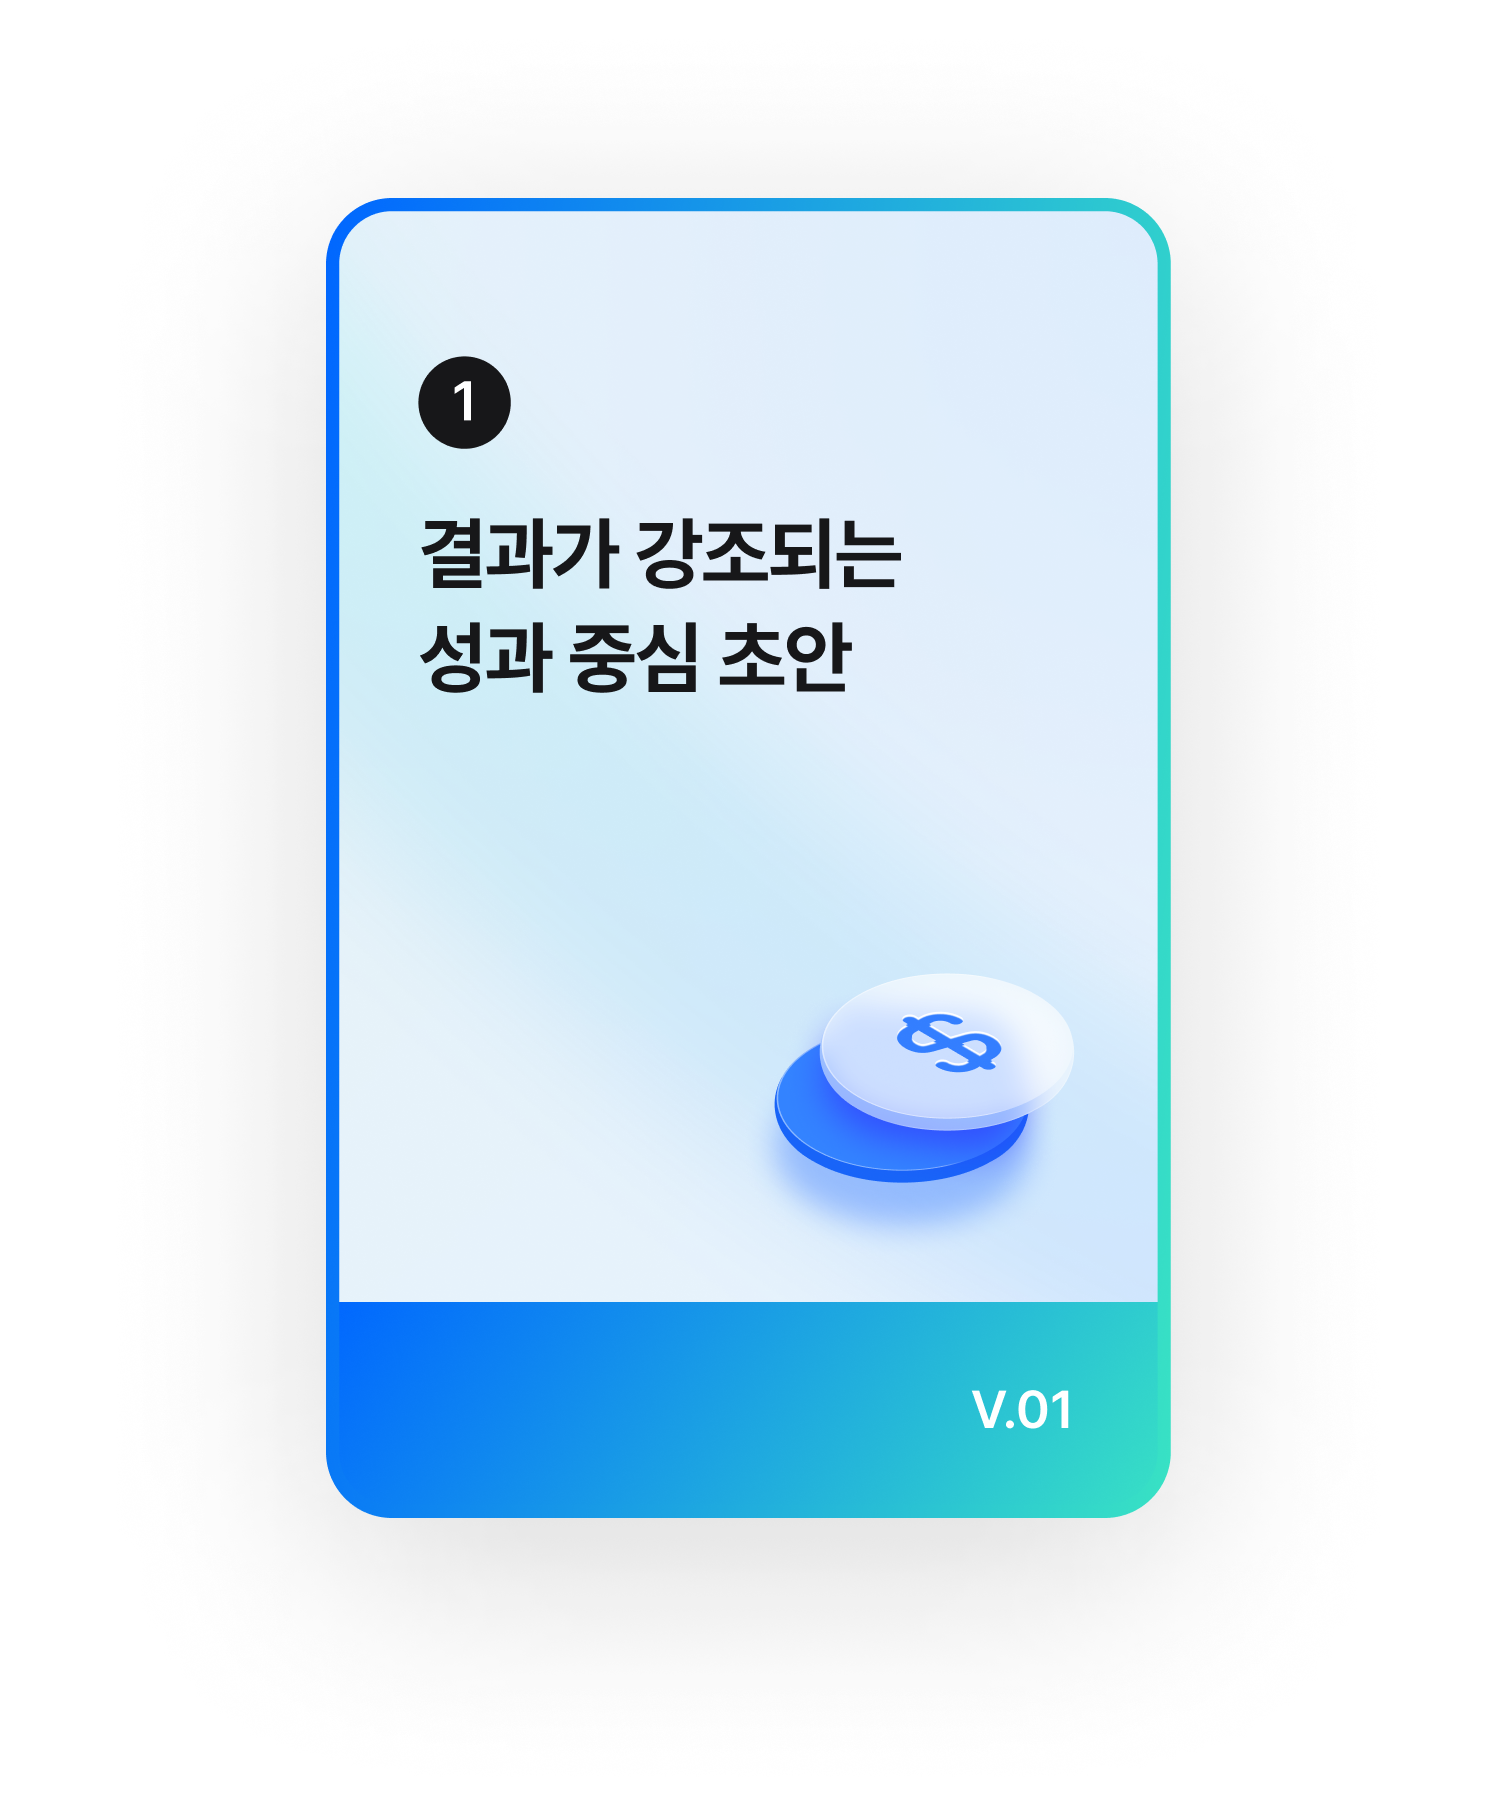
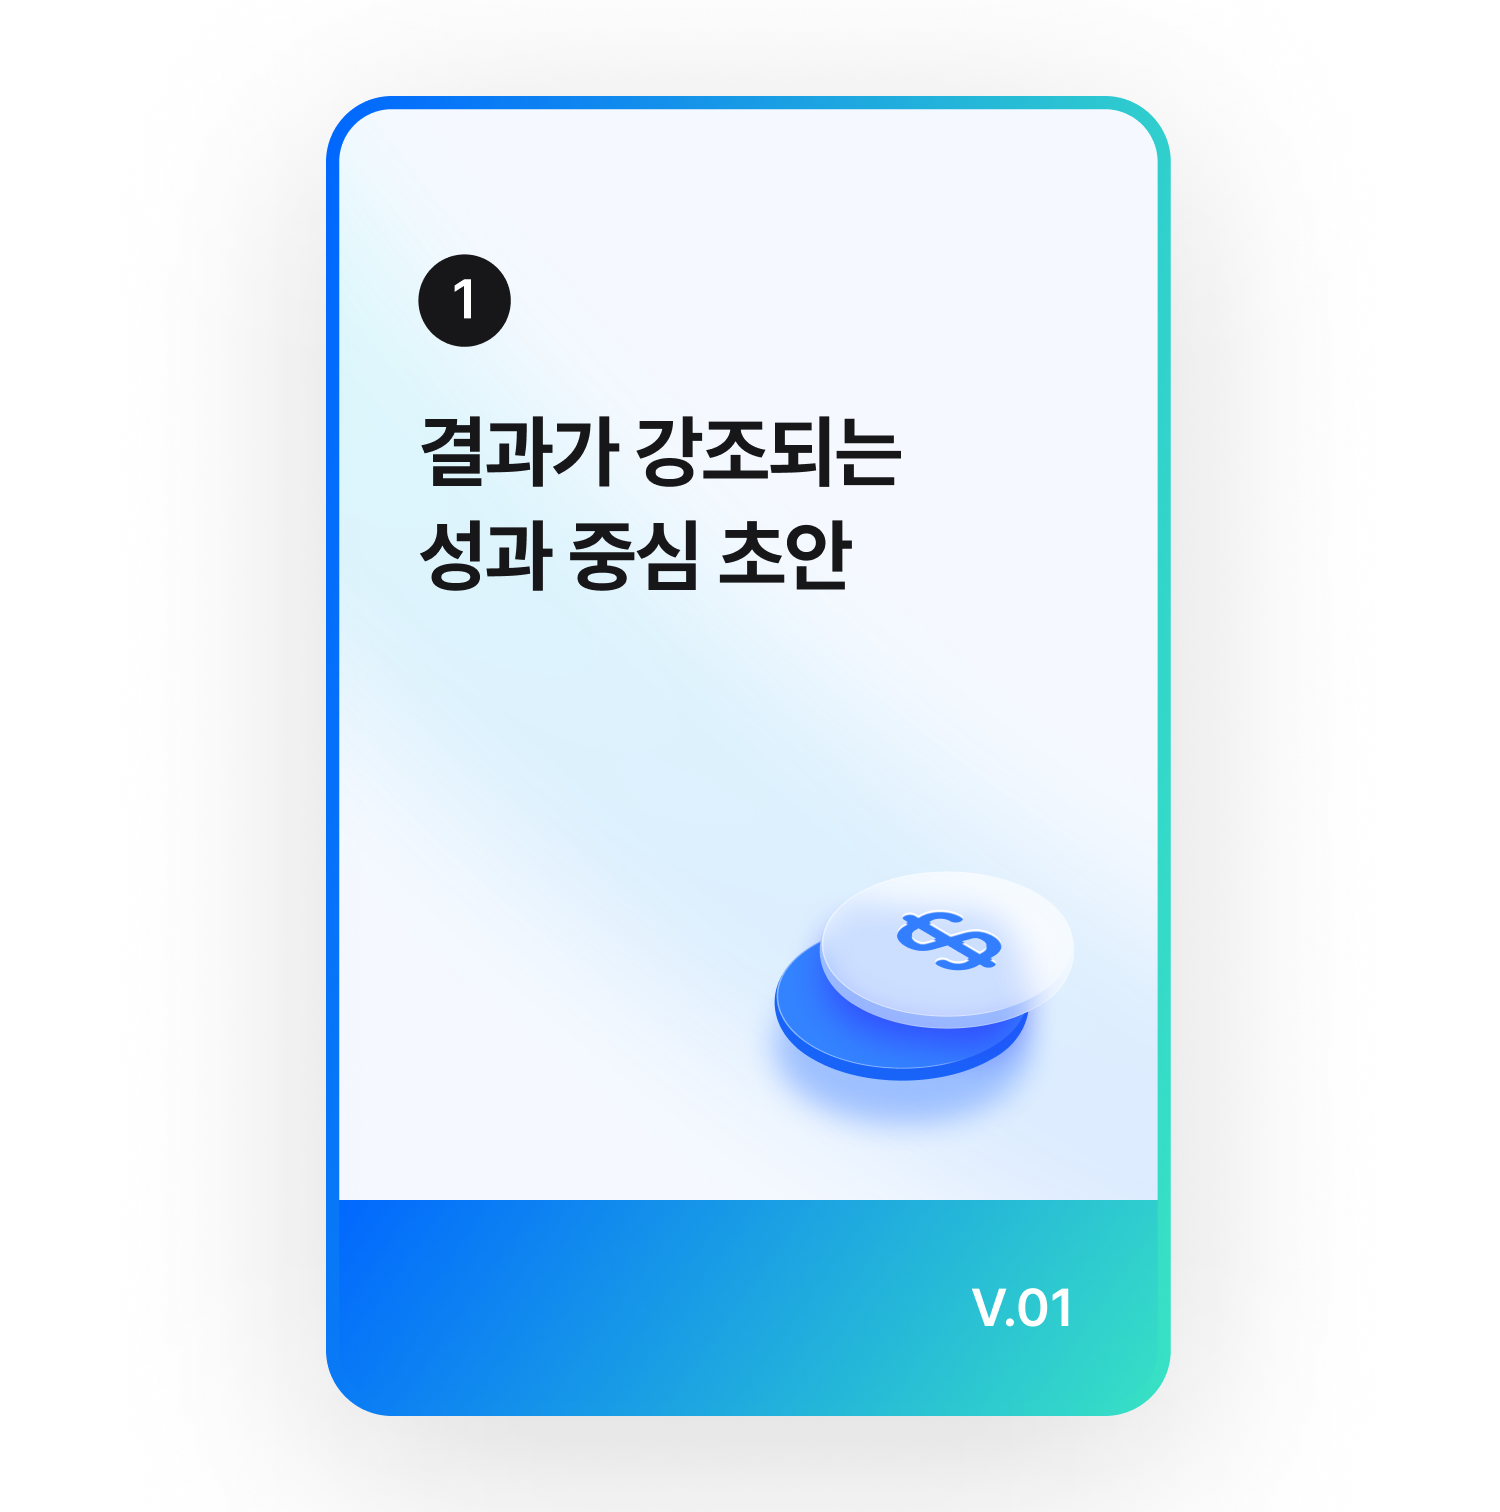
"지혜_Cm02LoadingScreen_공통컴포넌트_추출_이미지교체_하단패딩제거"

Changed region(s): [[0.2152, 0.0622, 0.7995, 0.9636], [0.2767, 0.2798, 0.615, 0.4041], [0.2767, 0.1554, 0.3382, 0.2487]]

diff --git a/app/components/Cm02LoadingScreen.tsx b/app/components/Cm02LoadingScreen.tsx
@@ -1,0 +1,75 @@
+"use client";
+
+import Image from "next/image";
+import { AiOrb } from "./AiOrb";
+
+/**
+ * Cm02LoadingScreen — A/B/C/D 공통 CM 02 진입 화면.
+ * "N번 초안을 선택했어요" 텍스트 + 선택한 초안 카드 일러스트 + 다음 액션 버튼 2개.
+ *
+ * 일러스트: public/CM02_loading.png (Figma 스펙 375 × 378, 원본 1500 × 1512).
+ * 상단 텍스트 영역은 하단 padding 0 (이미지와 붙어 보이도록 설계).
+ *
+ * @param draftIndex   CM1에서 선택한 초안 번호 (1~3)
+ * @param draftTitle   선택한 초안 제목 (현재는 본문에 노출 안 함 — 추후 라벨용으로 유지)
+ * @param onRefine     "초안 내용 다듬기" 클릭 → CM2 채팅 단계
+ * @param onFinalize   "최종 마무리 단계로 넘어가기" 클릭 → End 단계
+ */
+interface Cm02LoadingScreenProps {
+  draftIndex: number;
+  draftTitle: string;
+  onRefine: () => void;
+  onFinalize: () => void;
+}
+
+export function Cm02LoadingScreen({
+  draftIndex,
+  onRefine,
+  onFinalize,
+}: Cm02LoadingScreenProps) {
+  return (
+    <>
+      <section className="flex flex-col items-center gap-5 px-5 pt-12 pb-0">
+        <AiOrb size={40} />
+        <div className="flex flex-col items-center gap-2">
+          <h2 className="text-heading-1 text-center font-bold text-label-strong">
+            {draftIndex}번 초안을 선택했어요
+          </h2>
+          <p className="text-body-1-reading text-center text-label-neutral">
+            내용을 AI와 함께 더 다듬을 수 있어요
+          </p>
+        </div>
+      </section>
+      <div className="px-5">
+        <Image
+          src="/CM02_loading.png"
+          alt=""
+          width={1500}
+          height={1512}
+          priority
+          quality={90}
+          sizes="(max-width: 480px) 100vw, 375px"
+          className="mx-auto h-auto w-full max-w-[375px]"
+        />
+      </div>
+      <div className="flex-1" />
+      <footer className="flex w-full flex-col items-start gap-2 self-stretch px-5 pb-2">
+        <button
+          type="button"
+          onClick={onRefine}
+          className="w-full self-stretch rounded-xl bg-primary-normal px-7 py-3.5 text-center text-headline-2 font-bold text-static-white transition-colors hover:bg-primary-strong active:bg-primary-heavy"
+        >
+          초안 내용 다듬기
+        </button>
+        <button
+          type="button"
+          onClick={onFinalize}
+          className="w-full self-stretch rounded-xl border px-7 py-3.5 text-center text-headline-2 font-bold text-label-normal transition-colors hover:bg-fill-alternative"
+          style={{ borderColor: "rgba(112, 115, 124, 0.16)" }}
+        >
+          최종 마무리 단계로 넘어가기
+        </button>
+      </footer>
+    </>
+  );
+}

diff --git a/app/A/page.tsx b/app/A/page.tsx
@@ -7,6 +7,7 @@ import { PageTitleBar } from "../components/PageTitleBar";
 import { StatusBar } from "../components/StatusBar";
 import { HomeBar } from "../components/HomeBar";
 import { StartScreen } from "../components/StartScreen";
+import { Cm02LoadingScreen } from "../components/Cm02LoadingScreen";
 import { useSyncBodyBackground } from "../hooks/useSyncBodyBackground";
 
 /**
@@ -811,57 +812,6 @@ function Cm01Screen({ onDraftClick }: Cm01ScreenProps) {
       </div>
 
       <div className="flex-1" />
-    </>
-  );
-}
-
-// ─── CM 02 진입 화면 ("1번 초안을 선택했어요") ────────────────────────
-interface Cm02LoadingScreenProps {
-  draftIndex: number;
-  draftTitle: string;
-  onRefine: () => void;
-  onFinalize: () => void;
-}
-function Cm02LoadingScreen({
-  draftIndex,
-  draftTitle,
-  onRefine,
-  onFinalize,
-}: Cm02LoadingScreenProps) {
-  return (
-    <>
-      <section className="flex flex-col items-center gap-5 px-5 py-12">
-        <AiOrb size={40} />
-        <div className="flex flex-col items-center gap-2">
-          <h2 className="text-heading-1 text-center font-bold text-label-strong">
-            {draftIndex}번 초안을 선택했어요
-          </h2>
-          <p className="text-body-1-reading text-center text-label-neutral">
-            내용을 AI와 함께 더 다듬을 수 있어요
-          </p>
-        </div>
-      </section>
-      <div className="px-5">
-        <TbdCard label={draftTitle} />
-      </div>
-      <div className="flex-1" />
-      <footer className="flex w-full flex-col items-start gap-2 self-stretch px-5 pb-2">
-        <button
-          type="button"
-          onClick={onRefine}
-          className="w-full self-stretch rounded-xl bg-primary-normal px-7 py-3.5 text-center text-headline-2 font-bold text-static-white transition-colors hover:bg-primary-strong active:bg-primary-heavy"
-        >
-          초안 내용 다듬기
-        </button>
-        <button
-          type="button"
-          onClick={onFinalize}
-          className="w-full self-stretch rounded-xl border px-7 py-3.5 text-center text-headline-2 font-bold text-label-normal transition-colors hover:bg-fill-alternative"
-          style={{ borderColor: "rgba(112, 115, 124, 0.16)" }}
-        >
-          최종 마무리 단계로 넘어가기
-        </button>
-      </footer>
     </>
   );
 }
